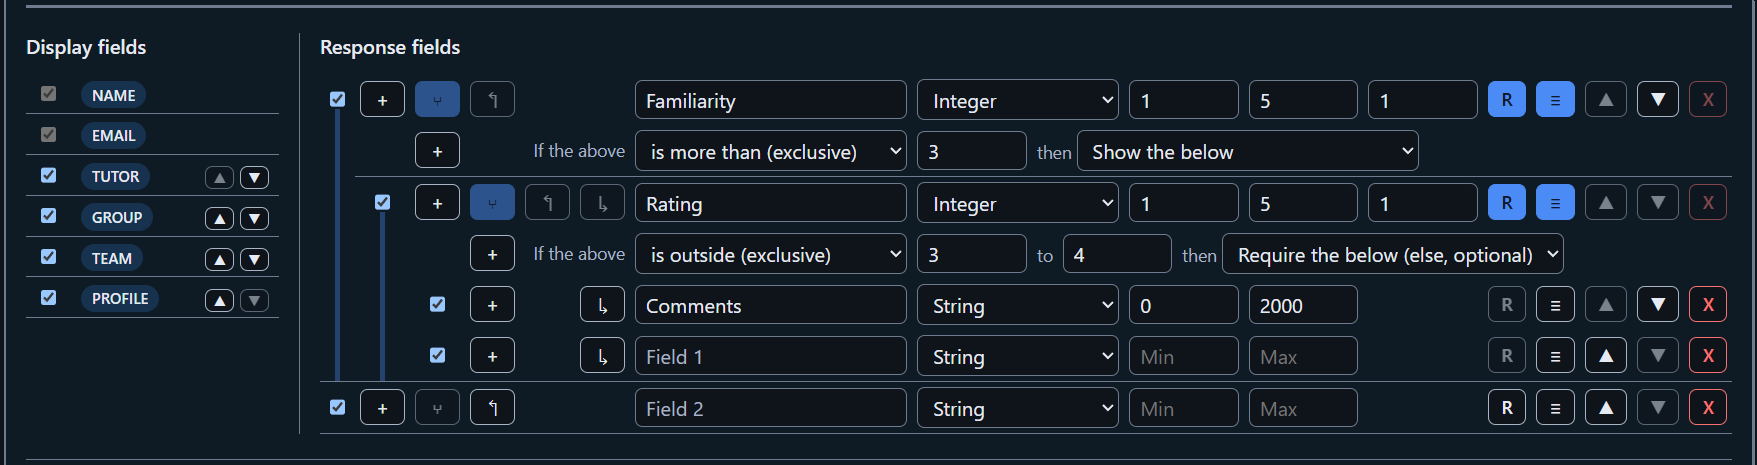
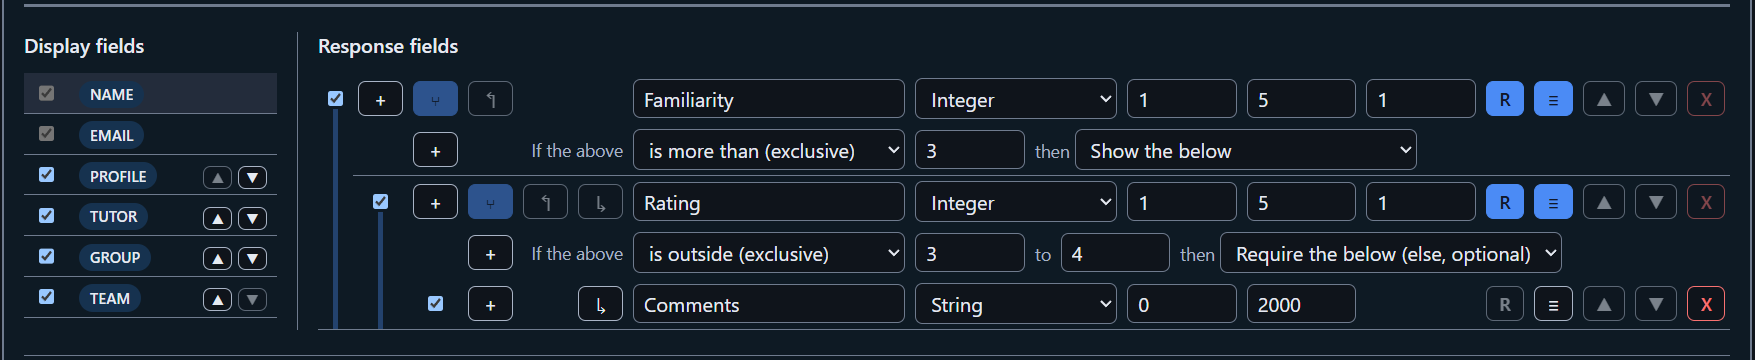
19T Item 15: the author's retaken dark captures
Guide_v4b1 retakes the three dark halves so each pair shows one screen:
the preview now carries both help-text cards, the fields shot the
locked card, and the branching shot the same three rows. The preview
and fields alt text names what both halves now show. The branching
pair still differs in its Display fields order, which the alt text
does not describe; the Status records it.

Claude-Session: https://claude.ai/code/session_0116Ns1HgCKeKutgZT3Tje64

diff --git a/app/web/templates/guide.html b/app/web/templates/guide.html
@@ -304,15 +304,15 @@
       <img src="/static/guide/instrument-card-preview.png"
            data-theme-variant="light" loading="lazy"
            alt="The Preview review instrument part of the card: the description
-                box, the Who can see what you wrote table, the Rating help-text
-                card, the required and all-items counts, and a
+                box, the Who can see what you wrote table, the Rating and Comments
+                help-text cards, the required and all-items counts, and a
                 sample reviewee row with Tutor, Group, Team and Profile columns
                 and the Rating and Comments inputs.">
       <img src="/static/guide/instrument-card-preview-dark.png"
            data-theme-variant="dark" loading="lazy"
            alt="The Preview review instrument part of the card: the description
-                box, the Who can see what you wrote table, the Rating help-text
-                card, the required and all-items counts, and a
+                box, the Who can see what you wrote table, the Rating and Comments
+                help-text cards, the required and all-items counts, and a
                 sample reviewee row with Tutor, Group, Team and Profile columns
                 and the Rating and Comments inputs.">
     </figure>
@@ -336,15 +336,17 @@
            alt="The foot of the instrument card: the Display fields table with
                 a checkbox and ▲ ▼ per field, the Response fields rows for
                 Rating and Comments with their type, bounds and the R, ≡, ▲ ▼
-                and X buttons, and the card's Replicate, Delete, +Instrument and
-                +Page break buttons above the delete-confirmation checkbox.">
+                and X buttons, and the locked card's Replicate, Delete,
+                +Instrument, +Page break and Unlock buttons above the
+                delete-confirmation checkbox.">
       <img src="/static/guide/instrument-card-fields-and-visibility-dark.png"
            data-theme-variant="dark" loading="lazy"
            alt="The foot of the instrument card: the Display fields table with
                 a checkbox and ▲ ▼ per field, the Response fields rows for
                 Rating and Comments with their type, bounds and the R, ≡, ▲ ▼
-                and X buttons, and the card's Replicate, Delete, +Instrument and
-                +Page break buttons above the delete-confirmation checkbox.">
+                and X buttons, and the locked card's Replicate, Delete,
+                +Instrument, +Page break and Unlock buttons above the
+                delete-confirmation checkbox.">
     </figure>
     <p>
       Use <strong>+</strong> to add a field below a row

diff --git a/guide/segment_19T_advanced_instruments.md b/guide/segment_19T_advanced_instruments.md
@@ -2448,6 +2448,11 @@ Taken 2026-09-27 at `3cec7196`:
   found that, the lock sentence claiming the fields lock (their
   membership and the condition do, up the chain), and "* are required"
   (a * marks a field that may be required); fixed but for the retakes.
+  The author's `Guide_v4b1` retook the three dark halves: preview and
+  fields now match, and their alt text names both help-text cards and
+  the locked card's Unlock. The branching pair matches in every row but
+  the Display fields order (dark: Profile before Tutor), which its alt
+  text does not describe.
 
 ### PR ladder
 
